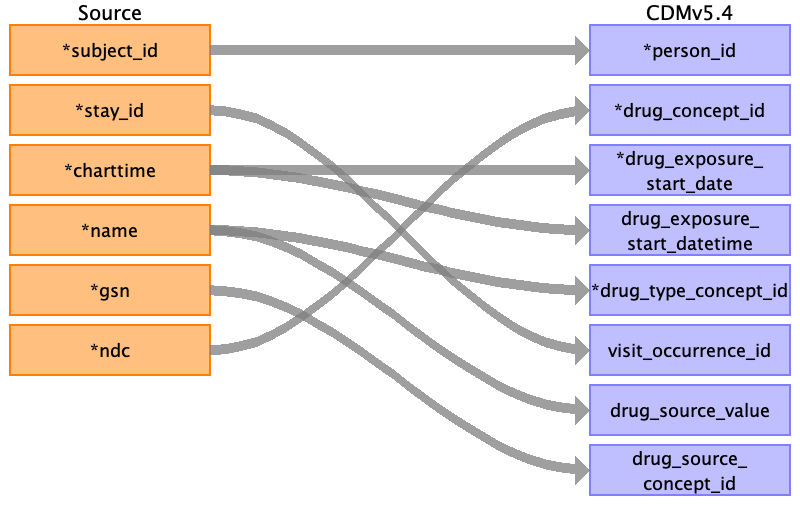
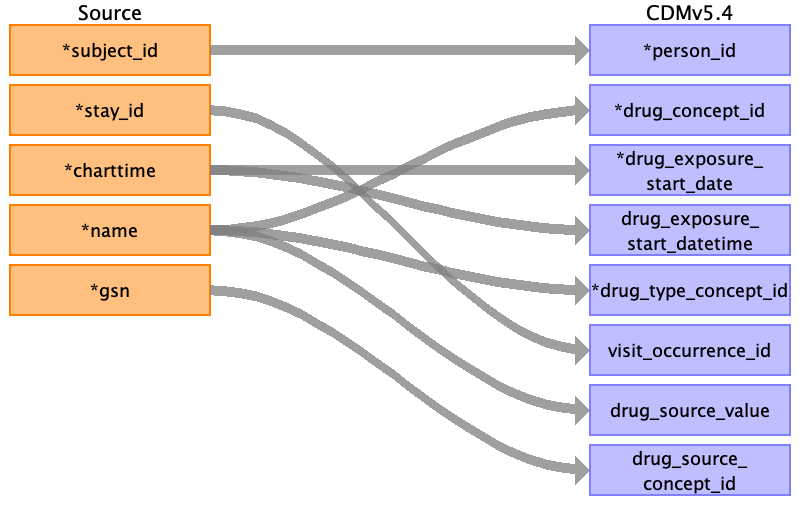
minor update

diff --git a/mappings/prototype_mappings/MIMIC4ED_CDMv5.4_revised_mappings/measurement.md b/mappings/prototype_mappings/MIMIC4ED_CDMv5.4_revised_mappings/measurement.md
@@ -8,7 +8,7 @@
 | --- | --- | --- | --- |
 | measurement_id |  |  |  |
 | person_id | subject_id |  |  |
-| measurement_concept_id | temperature<br>heartrate<br>resprate<br>o2sat<br>sbp<br>dbp<br>pain |  |  |
+| measurement_concept_id | temperature<br>heartrate<br>resprate<br>o2sat<br>sbp<br>dbp<br>pain | measurement_concept_id = 4302666    Name = Body temperature  Vocab = SNOMED<br>measurement_concept_id = 4239408    Name = Heart rate  Vocab = SNOMED<br>measurement_concept_id = 4313591    Name = Respiratory rate  Vocab = SNOMED<br>measurement_concept_id = 40483579    Name = Arterial oxygen saturation  Vocab = SNOMED<br>measurement_concept_id = 4152194    Name = Systolic blood pressure  Vocab = SNOMED<br>measurement_concept_id = 4154790    Name = Diastolic blood pressure  Vocab = SNOMED<br>measurement_concept_id = 4022240    Name = Pain score  Vocab = SNOMED |  |
 | measurement_date |  |  |  |
 | measurement_datetime |  |  |  |
 | measurement_time |  |  |  |
@@ -38,7 +38,7 @@
 | --- | --- | --- | --- |
 | measurement_id |  |  |  |
 | person_id | subject_id |  |  |
-| measurement_concept_id | temperature<br>heartrate<br>resprate<br>o2sat<br>sbp<br>dbp<br>pain<br>rhythm |  |  |
+| measurement_concept_id | temperature<br>heartrate<br>resprate<br>o2sat<br>sbp<br>dbp<br>pain<br>rhythm | measurement_concept_id = 4302666    Name = Body temperature  Vocab = SNOMED<br>measurement_concept_id = 4239408    Name = Heart rate  Vocab = SNOMED<br>measurement_concept_id = 4313591    Name = Respiratory rate  Vocab = SNOMED<br>measurement_concept_id = 40483579    Name = Arterial oxygen saturation  Vocab = SNOMED<br>measurement_concept_id = 4152194    Name = Systolic blood pressure  Vocab = SNOMED<br>measurement_concept_id = 4154790    Name = Diastolic blood pressure  Vocab = SNOMED<br>measurement_concept_id = 4022240    Name = Pain score  Vocab = SNOMED<br>measurement_concept_id = 4239411    Name = Pulse rhythm  Vocab = SNOMED |  |
 | measurement_date | charttime |  |  |
 | measurement_datetime | charttime |  |  |
 | measurement_time |  |  |  |

diff --git a/mappings/prototype_mappings/MIMIC4ED_CDMv5.4_revised_mappings/drug_exposure.md b/mappings/prototype_mappings/MIMIC4ED_CDMv5.4_revised_mappings/drug_exposure.md
@@ -8,7 +8,7 @@
 | --- | --- | --- | --- |
 | drug_exposure_id |  |  |  |
 | person_id | subject_id |  |  |
-| drug_concept_id | ndc |  |  |
+| drug_concept_id | name |  |  |
 | drug_exposure_start_date | charttime |  |  |
 | drug_exposure_start_datetime | charttime |  |  |
 | drug_exposure_end_date |  |  |  |
